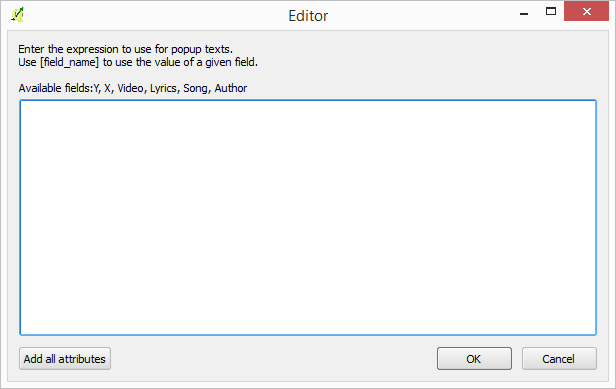
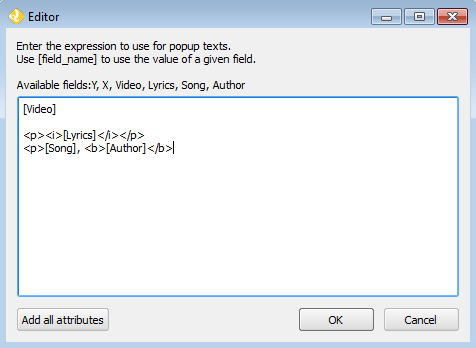
Editing WAB songs tutorial

Changed region(s): [[0.0, 0.0, 1.0, 1.0], [0.6176, 0.9195, 0.6471, 0.9483]]

diff --git a/docs/usermanual/source/qgis/webappbuilder/tutorials/songs/index.rst b/docs/usermanual/source/qgis/webappbuilder/tutorials/songs/index.rst
@@ -1,110 +1,128 @@
-.. _Mapping_songs_about_Madrid:
+.. _qgis.webappbuilder.tutorials.songs:
 
 Mapping songs about Madrid
-*************************************
+==========================
 
-This exercise demonstrate how to create a web app that allow to explore songs related to the city of MAdrid. For each song, an entry is added to a map, which contains information abut the lyrics and the author. A popup is shown when clicking on each song point, with an embeded video for the song. This app is inspired by a similar work published in `this article <http://www.huffingtonpost.es/2015/05/15/canciones-madrid-mapa_n_7214408.html>`_
+This tutorial shows how to create a web app that explores songs related to the city of Madrid in Spain. For each song, an entry is added to a map, which contains information abut the lyrics and the author. A popup is shown when hovering over each song point, with an embeded video for the song. This app is inspired by a similar work published in `this article in the Huffington Post <http://www.huffingtonpost.es/2015/05/15/canciones-madrid-mapa_n_7214408.html>`_.
 
 Data
-=====
+----
 
-All data needed for this exercise can be found :download:`here <data/songs.zip>`. There is just a points shapefile with songs information, along with an icon that we will use to render song locations in the map.
+:download:`Download the data for this tutorial <data/songs.zip>`.
 
+This archive contains a point shapefile with song information, along with an icon that we will use to render song locations on the map.
 
-Setting up the application in QGIS
-===================================
+Preparing the application in QGIS
+---------------------------------
 
-Before we use the Web App Builder plugin, we have to set up our data layers in QGIS. The data that we put in the web app will be exactly as it is in QGIS, including the styling. 
+First, we have to set up our data layers in QGIS.
 
-ADd the vector layer that you will find in the data zip file to your QGIS project. 
+#. Add the vector layer to a QGIS project. 
 
+   .. figure:: img/defaultlayer.png
 
-.. image:: img/layer.png
-	:align: center
+      Layer with default style
 
-You can improve the default styling by using a SVG marker with a quaver symbol for each point representing a note. In the data that is used for this exercise, you will find an SVG file that you can use. Check the QGIs user manual to learn how to use a custom SVG symbol.
+#. Improve the default styling by replacing the default symbol with the SVG marker included in the data. (:file:`note.svg`). This can be done in the Layer Properties interface (found by right-clicking the layer name and going to :guilabel:`Properties`.)
 
-Defining the web app
-=====================
+   .. figure:: img/style.png
 
-Start the Web App Builder by selecting the *Plugins/Boundless/Web App Builder* menu.
+      Adding styling
 
+   .. figure:: img/styledlayer.png
 
-.. image:: img/description.png
-	:align: center
+      Layer with SVG marker
 
-We have several tabs, each one used to define a particular set of parameters. We will go through all of them and describe their meaning.
+Configuring the application
+---------------------------
 
-Description tab
-----------------
+Start the Web App Builder by selecting :menuselection:`Plugins --> Boundless --> Web App Builder`. This will bring up the interface used to configure our web app. There are several tabs, each one used to define a particular set of parameters. We will go through each of them and describe their meaning.
 
-Enter "Mapping Madrid songs" in the title box. We will not use any icon, so you can leave the logo box empty.
+#. In the :guilabel:`Description` tab, fill out the form with the following:
 
-We will use the full screen theme.
+   #. Enter :kbd:`Mapping Madrid songs` in the title box.
 
-Base layer tab
----------------
+   #. Select the :guilabel:`fullscreen` theme.
 
-.. image:: img/baselayer.png
-	:align: center
+      .. figure:: img/descriptiontab.png
 
-Select the OSM layer as the base layer to use. Since more than one layer can be selected, you will have to unselect the MapQuest layer that is used by default.
+         Description tab
 
-Layers tab
------------
+#. In the :guilabel:`QGIS Layers` tab, fill out the form with the following:
 
-.. image:: img/layers.png
-	:align: center
+   #. Make sure that the :guilabel:`Songs` layer is checked.
 
-This tab is used to configure which layers from your QGIS project are used, and how they are used. We only have one layer and we will use it, so make sure that the *Songs* layer is checked.
+   #. Click the :guilabel:`Edit` link to edit the content of the popup for the layer.
 
-Click on the *Edit...* link to edit the content of the popup for the layer. You will see the following dialog:
+   #. Enter the following in the text box to define the content of the popup::
 
-.. image:: img/popup.png
-	:align: center
+        [Video]
 
+        <p><i>[Lyrics]</i></p>
+        <p>[Song], <b>[Author]</b>
 
-Enter the following in the text box, to define the content of the popup:
+      This popup will display the embeded video as well as lyrics, song, and author information.
 
-::
+      .. figure:: img/popup.png
 
-	[Video]
+         Feature popup
 
-	<p><i>[Lyrics]</i></p>
-	<p>[Song], <b>[Author]</b>
+   #. Click :guilabel:`OK`.
 
+      .. figure:: img/qgislayerstab.png
 
-The popup displayed when a song point is selected will contain the embeded video and the song and author information.
+#. In the :guilabel:`Other Layers` tab, select the :guilabel:`Stamen toner lite` layer.
 
+   .. figure:: img/otherlayerstab.png
 
-Widgets
---------
+      Other Layers tab
 
-.. image:: img/widgets.png
-	:align: center
+#. In the :guilabel:`Controls` tab, disable (unselect) all controls. 
 
-This tab is used to select which map controls and tools you want in your web app. We do not want any controls, so you should disable the three default ones.
+   .. figure:: img/controlstab.png
 
-Settings
-----------
+      Controls tab
 
-.. image:: img/settings.png
-	:align: center
+#. In the :guilabel:`Settings` tab, check the :guilabel:`Show popups on hover` parameter, so popups are shown when passing the mouse over the points without having to click on them.
 
-Some additional parameters can be configured in the last tab of the dialog.
+   .. figure:: img/settingstab.png
 
-For our web app, we will use all the default values except for the *Show popups on hover* parameter. Check the corresponding box, so popups are shown when passing the mouse over the points, without having to click on them.
+      Settings tab
+
+.. note:: There is no need to edit any of the parameters in the :guilabel:`Deploy` tab.
 
 Creating the application
-=========================
+------------------------
 
-With the web app already defined, we can now create it by clicking on the *Create App* button. A folder selector dialog will be shown. Select the folder where you want to store the web app. The app will be created and saved to the selected folder.
+#. With the configuration defined, we can now create it by clicking the :guilabel:`Create App` button at the bottom of the Web App Builder dialog.
 
+   .. note:: You may also wish to save the configuration by clicking the :guilabel:`Save` icon.
 
-The final result
-=========================
+   .. figure:: ../schools/img/builderbuttons.png
 
-If you have done all steps above, you should have a working web app in your machine, in the folder that you selected. Open it by opening the *index.html* file that you will find there.
+      Create App
 
-.. image:: img/result.png
-	:align: center
+#. Select the directory where you want to store the web app. 
+
+#. The app will be created and saved in this directory. When finished, a dialog will display.
+
+   .. figure:: ../schools/img/deployed.png
+
+      App successfully deployed
+
+#. Click :guilabel:`Yes` to see the deployed app.
+
+Final result
+------------
+
+By this point, you should have a working web app. Launch the app by opening :file:`index.html` file inside the directory where you created your web app.
+
+.. figure:: img/app.png
+
+   Deployed app
+
+To see the application in action, hover over any of the points on the map.
+
+.. figure:: img/apphover.png
+
+   Hovering over a point

diff --git a/docs/usermanual/source/qgis/webappbuilder/tutorials/schools/index.rst b/docs/usermanual/source/qgis/webappbuilder/tutorials/schools/index.rst
@@ -1,4 +1,4 @@
-.. _tutorials.schools:
+.. _qgis.webappbuilder.tutorials.schools:
 
 Mapping French schools
 ======================
@@ -34,7 +34,7 @@ The first step in building a web app using the Web App Builder is to set up our 
 Configuring the application
 ---------------------------
 
-Start the Web App Builder by selecting :menuselection:`Plugins --> Boundless --> Web App Builder`. This will bring up the interface we use to configure our web app. There are several tabs, each one used to define a particular set of parameters. We will go through each of them and describe their meaning.
+Start the Web App Builder by selecting :menuselection:`Plugins --> Boundless --> Web App Builder`. This will bring up the interface used to configure our web app. There are several tabs, each one used to define a particular set of parameters. We will go through each of them and describe their meaning.
 
 #. In the :guilabel:`Description` tab, fill out the form with the following:
 
